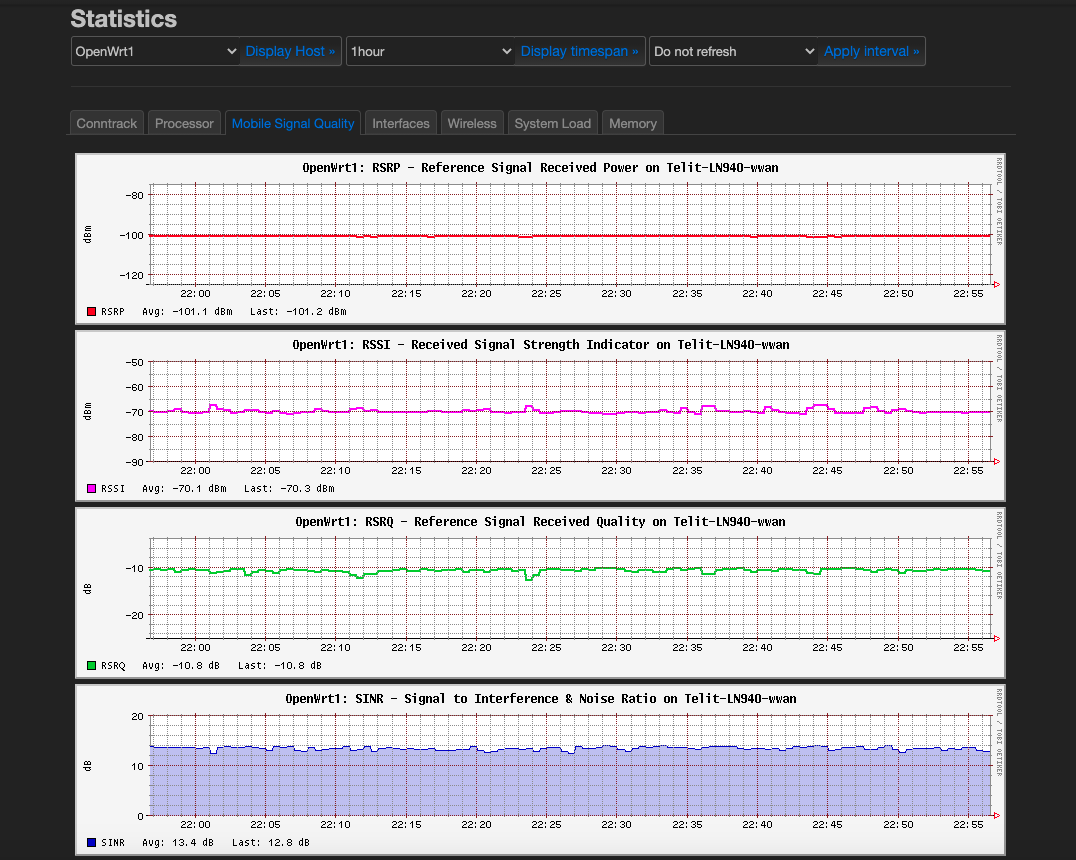
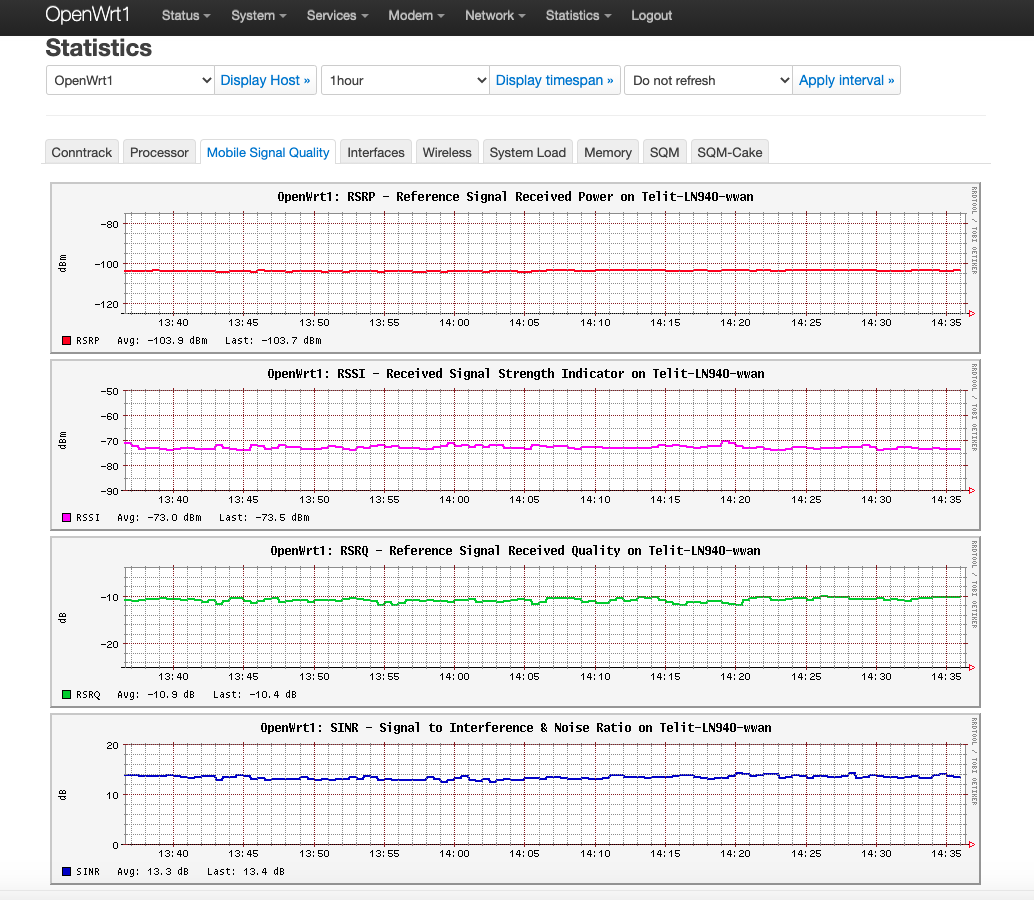
update

diff --git a/rrdtool/exec.js b/rrdtool/exec.js
@@ -96,7 +96,8 @@ return baseclass.extend({
                                         mobile_signal_sinr: {
                                                 title  : "SINR",
                                                 overlay: false,
-                                                color  : "0000cc"
+                                                color  : "0000cc",
+						noarea: true
                                         }
                                 }
                         }
